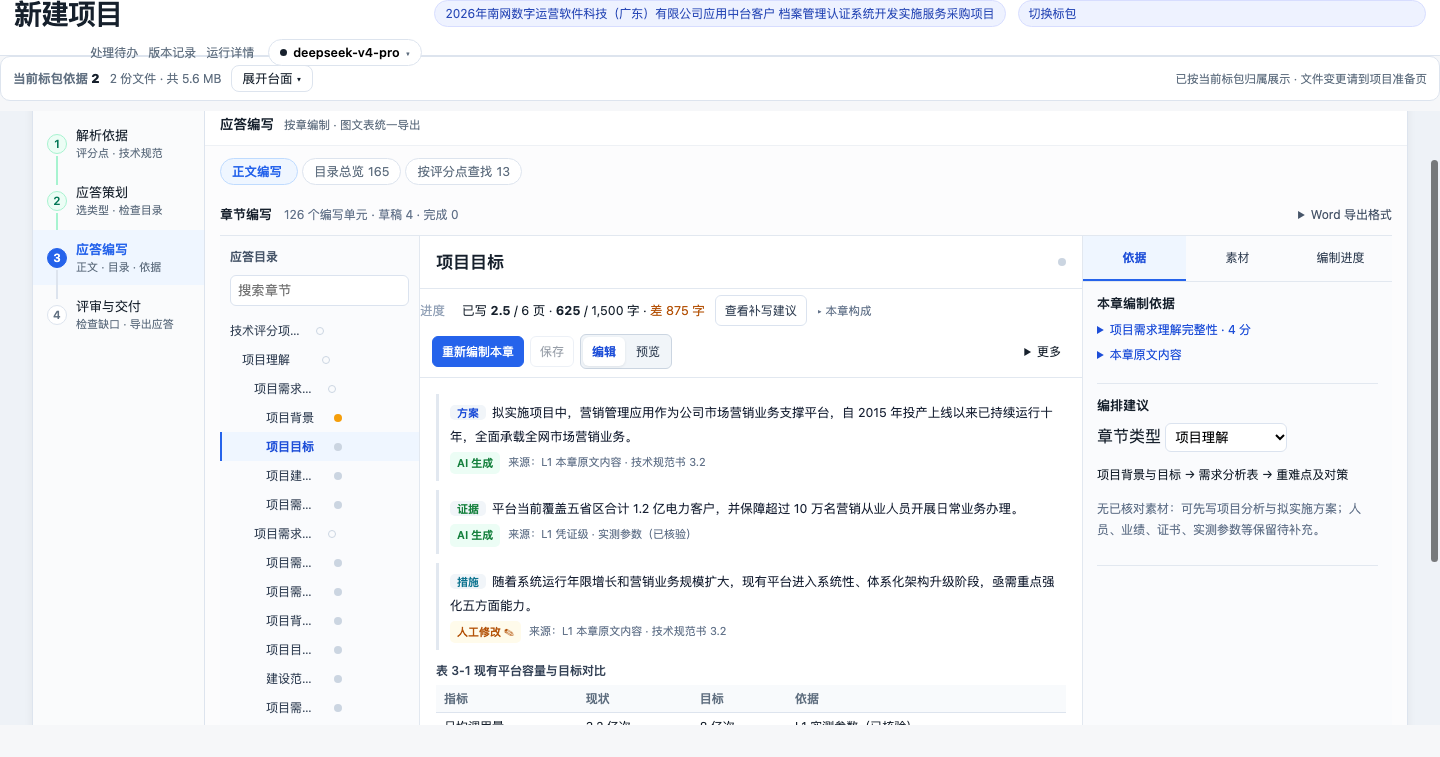
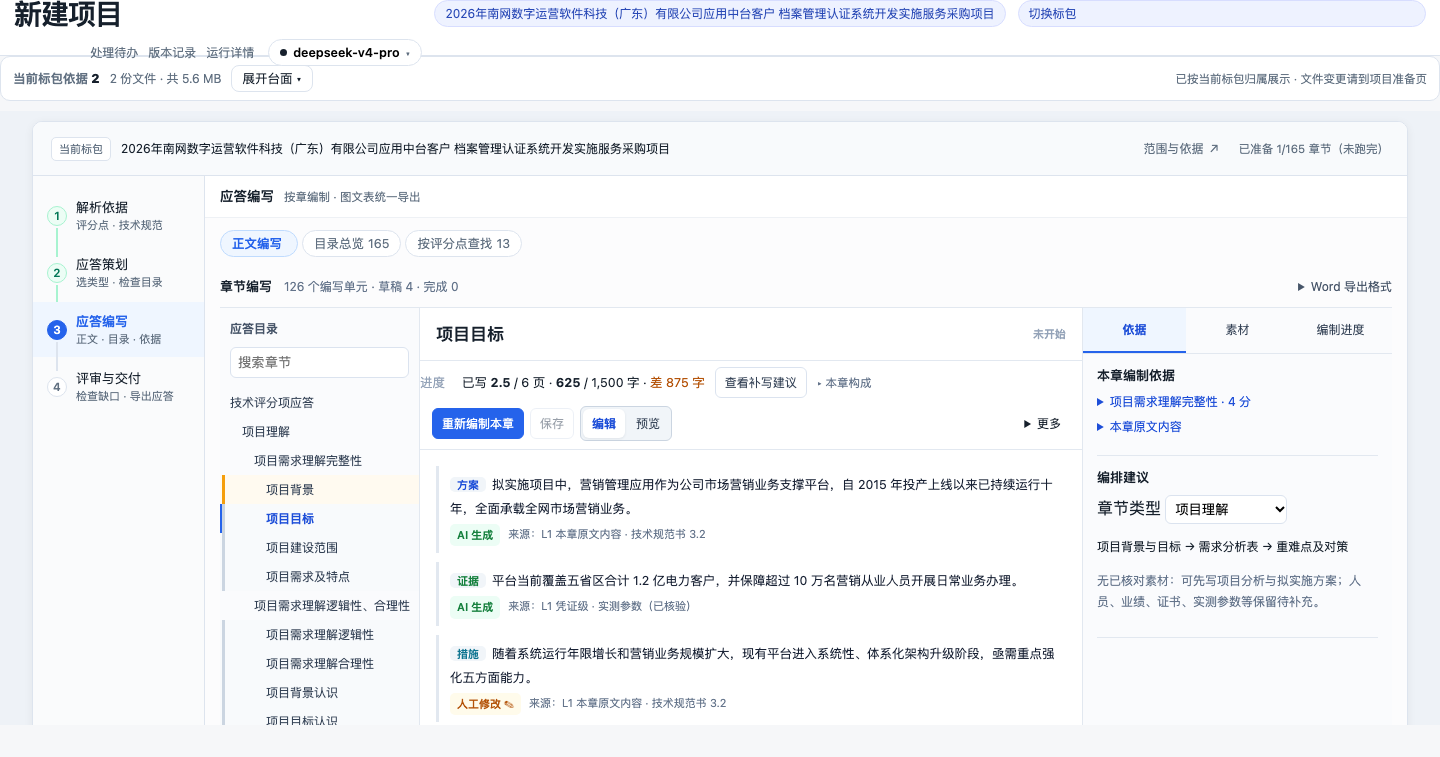
docs(design): 目录状态改为"整条着色"（不在文字后加标识，名称恢复完整）
用户指出两点：
1. 为什么在目录上加标识？—— 不该在文字后面新增元素
2. 加了之后目录名称显示不全了

## 诊断（对比未打补丁的原始快照）
同一棵 200px 宽的树，同一行同一段文字：
  原始快照  「技术评分项应答」文字宽 152px（完整）
  我的原型  文字宽 72px（被压掉一半 → 省略号）
原因：我在行内追加了圆点与一个空占位 span，两者都占行内宽度，把名称挤到省略。

## 改法（按用户建议）
- 删掉行内新增的一切元素：上一版的圆点、空占位 span 全部移除
- 状态文字（真实标记里的 <small>）不再显示，改用它给**整条**着色：
  左侧 3px 色条（box-shadow inset，零宽度占用）+ 极浅底色
  灰=未开始 · 橙=待核对 · 蓝=进行中 · 绿=已完成；「目录」类结构节点不着色
- 状态文字写入行的 title：悬浮显示「项目背景 · 待核对」
- 章头 .cs-chapter-state 恢复为文字，仅用颜色区分（未开始=浅灰、待核对=橙）

## 实测
名称文字宽 72px → 180px（原始快照为 152px），scrollWidth = 文字宽，无截断 ✅
「项目需求理解逻辑性、合理性」等长名称完整显示 ✅
行配色：项目背景=橙（待核对）；选中行仍保留产品的选中样式 ✅
无 JS 错误 ✅

diff --git a/docs/design/mockups/prod-prototype.html b/docs/design/mockups/prod-prototype.html
@@ -15558,40 +15558,39 @@ GB/T 35274-2023《数据安全技术 大数据服务安全能力要求》
 </script>
 
 <script>
-/* 左树与章头：状态改用颜色点，文字只在 hover（title）里出现 */
+/* 左树：整条按状态着色（不新增任何元素、不占文字宽度） */
 (function(){
-  var COLOR={'未开始':'#cbd5e1','待核对':'#f59e0b','进行中':'#3b82f6','已完成':'#16a34a','已达标':'#16a34a','目录':'#e2e8f0'};
-  function toDot(el){
-    var txt=(el.textContent||'').trim();
-    var c=COLOR[txt];
-    if(!c) return false;
-    el.textContent='';
-    el.title=txt;                                   // 文字保留在悬浮提示里
-    el.setAttribute('aria-label',txt);
-    el.style.cssText='display:inline-block;width:8px;height:8px;border-radius:50%;flex:none;'
-      +'background:'+c+';margin-left:6px;vertical-align:middle;'
-      +(txt==='目录'?'border:1px solid #cbd5e1;background:transparent;':'');
-    return true;
-  }
-  /* ① 左树 165 行 */
+  var TINT={'未开始':'#f8fafc','待核对':'#fffaf0','进行中':'#eff6ff','已完成':'#f0fdf4','已达标':'#f0fdf4','目录':null};
+  var BAR ={'未开始':'#cbd5e1','待核对':'#f59e0b','进行中':'#3b82f6','已完成':'#16a34a','已达标':'#16a34a','目录':null};
   var tree=document.querySelector('.cs-tree');
-  if(tree){
-    tree.querySelectorAll('.cs-node').forEach(function(node){
-      var deepest=null;
-      node.querySelectorAll('span,em,i,b,small').forEach(function(sp){   // 真实行里状态在 <small> 里
-        if(sp.children.length===0 && COLOR[(sp.textContent||'').trim()]) deepest=sp;
-      });
-      if(deepest) toDot(deepest);
-    });
-  }
-  /* ② 章头状态 */
+  if(!tree) return;
+  tree.querySelectorAll('.cs-node').forEach(function(node){
+    /* ① 清掉我上一版加的东西：圆点、空占位 span */
+    node.querySelectorAll('.cs-pages').forEach(function(x){ x.remove(); });
+    /* ② 找到状态文字所在的 <small>（真实标记） */
+    var small=node.querySelector('small');
+    var txt=small?(small.textContent||'').trim():'';
+    if(small){ small.style.display='none'; }            // 文字不显示（悬浮/读屏仍可读）
+    /* ③ 整条着色 */
+    var bar=BAR[txt], tint=TINT[txt];
+    if(bar){
+      node.style.boxShadow='inset 3px 0 0 '+bar;        // 左侧色条，零宽度占用
+      node.style.background=tint;
+    }
+    if(txt){ node.title=((node.getAttribute('title')||'')+' · '+txt).replace(/^ · /,''); }
+  });
+  /* 章头状态：不新增元素，用文字颜色表达 */
   var st=document.querySelector('.cs-chapter-state');
-  if(st) toDot(st);
-  /* ③ 图例：不用文字，只在树的标题上加一个悬浮说明 */
-  var lab=document.querySelector('.cs-tree-label');
-  if(lab && !lab.title){
-    lab.title='灰=未开始 · 橙=待核对 · 蓝=进行中 · 绿=已完成';
+  if(st && st.style.borderRadius){ /* 恢复上一版被改成圆点的状态文字 */
+    st.style.cssText=''; st.textContent=st.title||st.getAttribute('aria-label')||'';
   }
+  if(st){
+    var m={'未开始':'#94a3b8','待核对':'#b45309','进行中':'#2563eb','已完成':'#16a34a'};
+    var t=(st.textContent||'').trim();
+    if(m[t]){ st.style.color=m[t]; st.style.fontWeight='600'; }
+  }
+  var lab=document.querySelector('.cs-tree-label');
+  if(lab) lab.title='整条颜色：灰=未开始 · 橙=待核对 · 蓝=进行中 · 绿=已完成';
 })();
 </script>
 </body></html>
